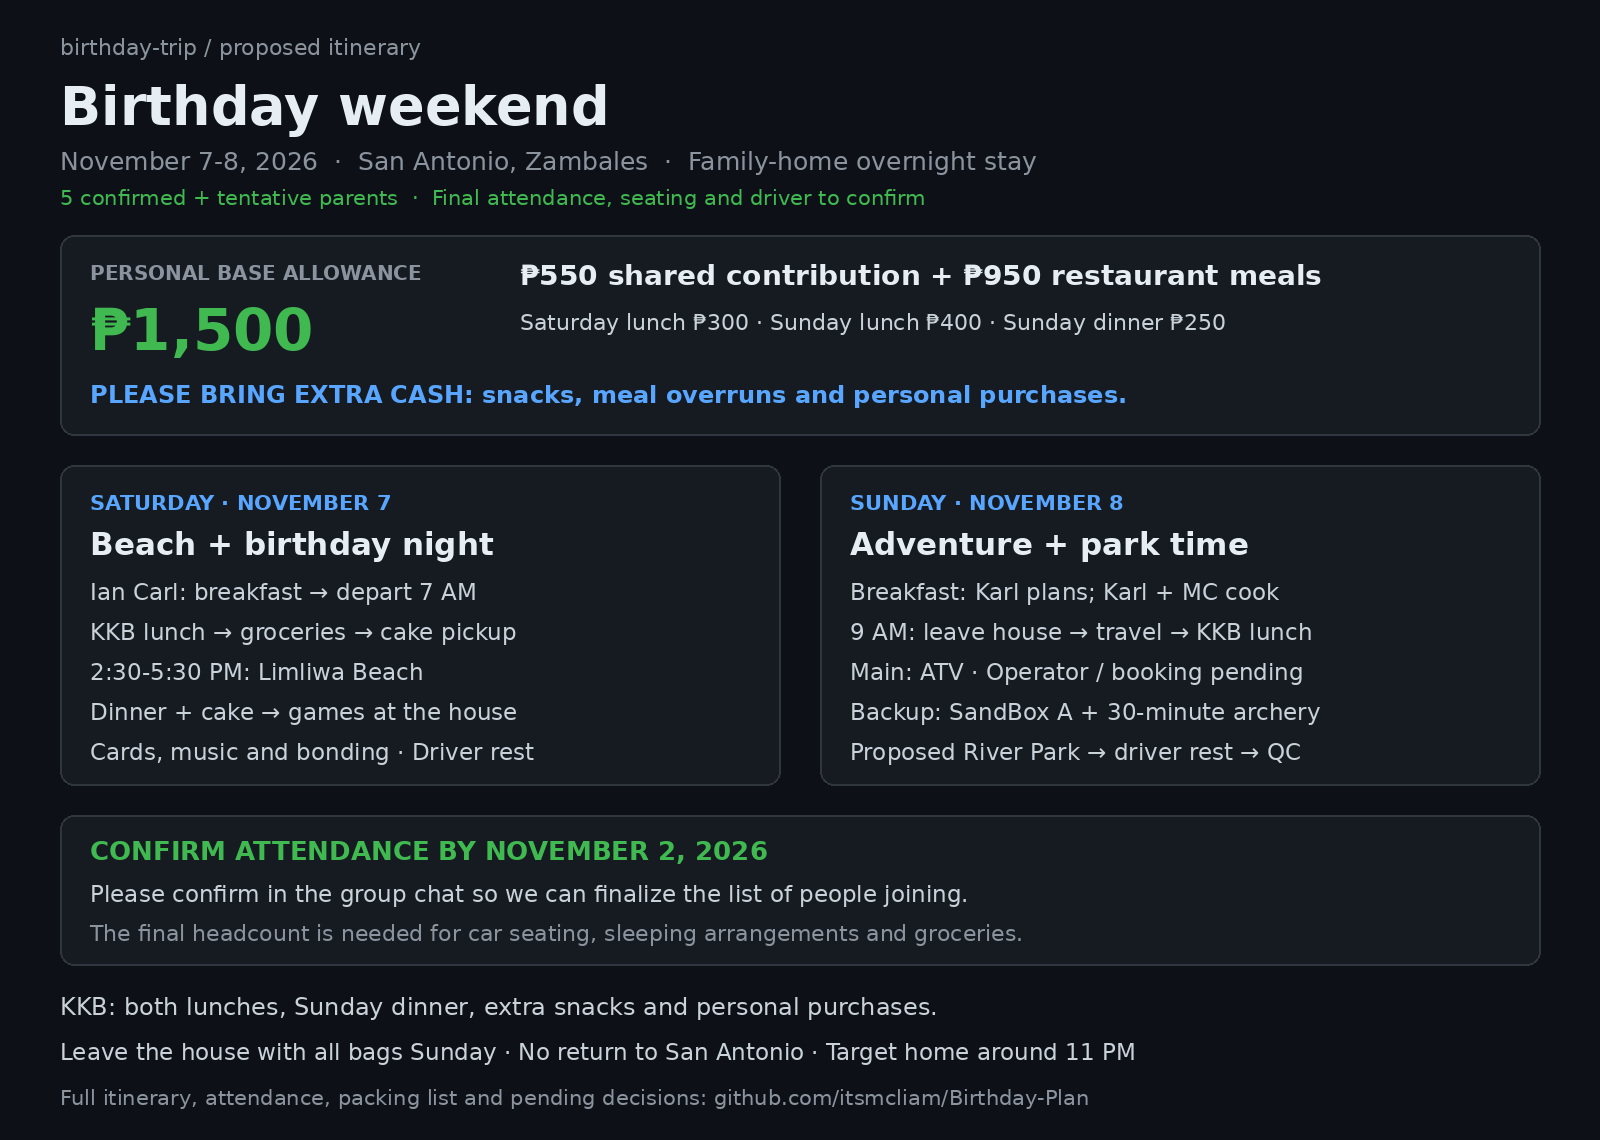
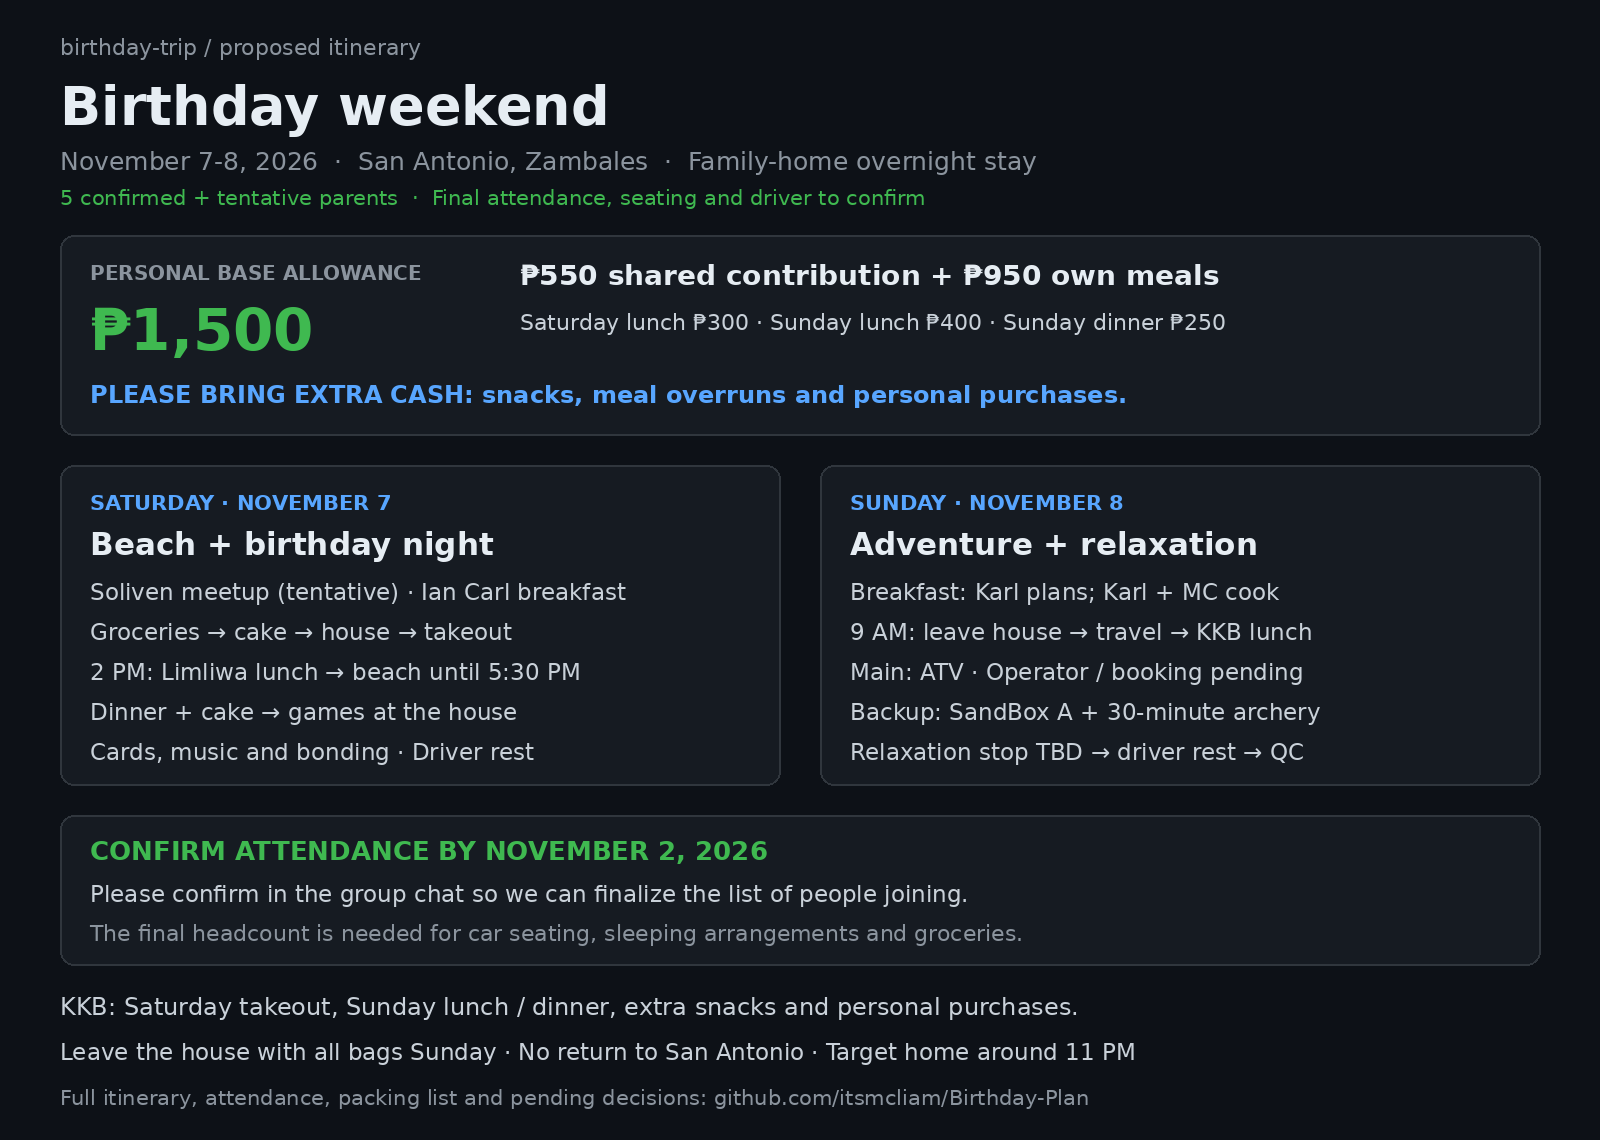
Use tentative Soliven meetup, Saturday beach takeout and pending post-ATV rest stop

diff --git a/README.md b/README.md
@@ -4,7 +4,7 @@
 
 A joint birthday celebration for **MC, Richelle and Paul**, with an overnight stay at Barte’s grandfather’s house in **San Antonio, Zambales**.
 
-![Birthday weekend overview](assets/trip-overview.png?v=20261024-breakfast-cake)
+![Birthday weekend overview](assets/trip-overview.png?v=20261024-takeout-soliven)
 
 [Download the printable PDF](Birthday-Trip-Plan.pdf) · [PNG overview](assets/trip-overview.png)
 
@@ -12,10 +12,10 @@ A joint birthday celebration for **MC, Richelle and Paul**, with an overnight st
 | --- | --- |
 | Dates | Saturday-Sunday, November 7-8, 2026 |
 | Transport | Barte’s car; final seating and driver to be confirmed |
-| Meetup | Pickups along the route, then Luzon meetup point |
+| Meetup | **Jollibee Soliven - tentative**; final pickup pins to follow |
 | Accommodation | Family home in San Antonio |
-| Saturday | Lunch, groceries, Limliwa Beach, birthday dinner and games at the house |
-| Sunday | ATV adventure and a relaxing park stop |
+| Saturday | Groceries, cake pickup, house stop, takeout lunch at Limliwa Beach, birthday dinner and games |
+| Sunday | KKB lunch before ATV, adventure and a relaxation stop - venue pending |
 | Personal budget | **₱1,500 base allowance - please bring extra cash** |
 | Target home arrival | Around **11 PM Sunday**, depending on traffic |
 
@@ -28,21 +28,21 @@ A joint birthday celebration for **MC, Richelle and Paul**, with an overnight st
 | Day 1 - Saturday, November 7 | [Open route](https://maps.app.goo.gl/bow4Z7npJpLcuBze9) |
 | Day 2 - Sunday, November 8 | [Open route](https://maps.app.goo.gl/9TENoR7mgRZXrqK6A) |
 
-Group route links supplied by MC. Sunday’s final route and timings remain subject to the confirmed ATV operator or SandBox alternative.
+Route links supplied by MC. The linked maps may still show the previous stop order. Saturday now uses **Jollibee Soliven (tentative)**, groceries, cake pickup, the house, takeout pickup and the beach. Sunday’s route depends on the ATV operator and the still-pending relaxation stop.
 
 ## Personal budget and KKB expenses
 
 | Expense per friend | Suggested amount |
 | --- | --- |
 | Shared contribution toward groceries, fuel and tolls | ₱550 |
-| Saturday lunch outside | ₱300 |
+| Saturday takeout lunch at the beach | ₱300 |
 | Sunday lunch outside | ₱400 |
 | Sunday dinner outside | ₱250 |
 | **Base allowance** | **₱1,500** |
 
 **Please bring extra cash on top of ₱1,500.** The meal amounts are estimates, and ₱1,500 is **not a guaranteed all-in budget**. Your actual spending will depend on restaurant prices and personal orders.
 
-Keep **₱950 for the three restaurant meals** and set aside **₱550 for the shared contribution**.
+Keep **₱950 for Saturday takeout lunch, Sunday lunch and Sunday dinner** and set aside **₱550 for the shared contribution**.
 
 | Additional personal expense | Arrangement |
 | --- | --- |
@@ -53,8 +53,8 @@ Keep **₱950 for the three restaurant meals** and set aside **₱550 for the sh
 ```mermaid
 flowchart TD
     A["₱1,500 base allowance"] --> B["₱550 shared contribution"]
-    A --> C["₱950 restaurant meals"]
-    C --> D["Saturday lunch: ₱300"]
+    A --> C["₱950 own meals"]
+    C --> D["Saturday takeout lunch: ₱300"]
     C --> E["Sunday lunch: ₱400"]
     C --> F["Sunday dinner: ₱250"]
     G["Bring extra cash beyond ₱1,500"] --> H["Extra snacks and personal purchases"]
@@ -88,28 +88,28 @@ flowchart TD
 | Time | Plan |
 | --- | --- |
 | 5:30&#8209;6&nbsp;AM | MC arrives at Barte’s house, parks his motorcycle and helps load the car. |
-| 6&#8209;7&nbsp;AM | Pick up Karl and Ian Carl along the route, then meet the remaining passengers at the **Luzon meetup point**. Exact pickup pins to follow. **Ian Carl prepares and packs Saturday’s light breakfast**, such as bread with spread or filling, for departure. |
-| 7&#8209;11&nbsp;AM | Travel to San Antonio, Zambales. Allow approximately **four hours**, including a short stop if needed. |
-| 11&nbsp;AM&#8209;12&nbsp;NN | **Lunch outside - KKB.** Recommended stop: **Wideplate Restaurant, San Antonio**, subject to group approval and current menu/seating confirmation. Keep the **₱300 personal allowance**. |
-| 12&#8209;1&nbsp;PM | Shop at **San Marcelino Public Market**, then a grocery for missing items: dinner and breakfast ingredients, fruit, drinks, water and ice. Karl identifies Sunday breakfast ingredients. Keep chilled items in the cooler. |
-| 1&#8209;1:30&nbsp;PM | **Cake pickup after groceries: KDB Sweet Shop**, Money Tree Building, Brgy. Rizal, San Antonio, behind 7-Eleven. **Preorder, flavor/design and pickup time still need confirmation.** |
-| 1:30&#8209;2&nbsp;PM | Arrive at the house, unload and refrigerate food. Everyone prepares beach bags while the driver rests. |
-| 2&#8209;2:30&nbsp;PM | Travel to **Limliwa Beach Resort**. |
-| 2:30&#8209;5:30&nbsp;PM | Beach swimming, photos, games and group hangout. Cottage availability depends on walk-in occupancy. |
+| 6&#8209;7&nbsp;AM | Pickups and meetup at **Jollibee Soliven - tentative**. Final pickup arrangements to follow. **Ian Carl prepares and packs Saturday’s light breakfast.** |
+| 7&#8209;11&nbsp;AM | Travel to Zambales. Allow approximately **four hours**, including a short stop if needed. |
+| 11&nbsp;AM&#8209;12&nbsp;NN | Shop at **San Marcelino Public Market** and a grocery for dinner and Sunday breakfast ingredients, fruit, drinks, water and ice. Karl identifies Sunday breakfast ingredients. Keep chilled purchases in the iced cooler. |
+| 12&#8209;12:30&nbsp;PM | **Cake pickup after groceries: KDB Sweet Shop**, Money Tree Building, Brgy. Rizal, San Antonio, behind 7-Eleven. **Preorder, flavor/design and pickup time still need confirmation.** |
+| 12:30&#8209;1&nbsp;PM | House stop: refrigerate raw meat and breakfast ingredients, store the cake, and prepare beach bags and a clean drinks cooler. Driver rests while others organize. |
+| 1&#8209;2&nbsp;PM | Leave the house, **collect freshly prepared takeout lunch - KKB**, then travel to **Limliwa Beach Resort**. Choose a shop near the house or along the beach route; confirm ordering/pickup ahead. |
+| 2&#8209;2:30&nbsp;PM | **Eat takeout lunch at the beach cottage.** Keep the **₱300 personal allowance**. Cottage access is walk-in and subject to availability. |
+| 2:30&#8209;5:30&nbsp;PM | Beach swimming, photos, games and group hangout. |
 | 5:30&#8209;6&nbsp;PM | Leave the resort and return to the house. |
 | 6&#8209;8&nbsp;PM | Shower, prepare **pork BBQ, pork adobo and rice**, eat together and celebrate with birthday cake. |
 | 8&#8209;10&nbsp;PM | Birthday games, music, group photos and bonding **at the house**. |
 | 10&#8209;11:30&nbsp;PM | UNO, cards, snacks and a relaxed hangout. Volunteers can bring small games. |
 | 11:30&nbsp;PM&nbsp;onward | Rest or quiet bonding. No fixed group bedtime, but the driver needs sufficient sleep before Sunday’s trip. |
 
-### Saturday lunch - KKB
+### Saturday takeout shortlist - KKB
 
 | Option | Published meal prices | Plan |
 | --- | --- | --- |
-| **Wideplate Restaurant** | Owner-uploaded menu reproduced by Restaurant Guru: lumpia silog ₱165, sisig with rice / liempo silog ₱185, chicken silog ₱190, tapsilog ₱225 | **Recommended KKB lunch**, subject to group approval; confirm latest prices, opening and seats |
-| **LML Sports Restaurant** | Own online catalog: regular silog meals ₱90-95; selected upsized meals ₱150 | Lower-cost option in Fabros Building, San Antonio; confirm current dine-in hours and menu |
+| **Wideplate Restaurant** | Owner-uploaded menu reproduced by Restaurant Guru: lumpia silog ₱165, sisig with rice / liempo silog ₱185, chicken silog ₱190, tapsilog ₱225 | Takeout candidate; confirm service, current prices and pickup time |
+| **LML Sports Restaurant** | Own online catalog: regular silog meals ₱90-95; selected upsized meals ₱150 | Lower-cost takeout candidate; confirm service, current prices and pickup time |
 
-Lunch references checked October 24, 2026: [Wideplate Facebook](https://www.facebook.com/wideplaterestaurant/) · [Owner-uploaded Wideplate menu reproduced by Restaurant Guru](https://restaurantguru.com/Wildeplate-Restaurant-San-Antonio-Central-Luzon/menu) · [LML own online catalog](https://lmlsportsrestaurant.catalog.kyte.site/silogs-and-sizzlings). Published prices may have changed. The ₱300 allowance includes room for a drink or extras depending on the order.
+Takeout shortlist references checked October 24, 2026: [Wideplate Facebook](https://www.facebook.com/wideplaterestaurant/) · [Owner-uploaded Wideplate menu reproduced by Restaurant Guru](https://restaurantguru.com/Wildeplate-Restaurant-San-Antonio-Central-Luzon/menu) · [LML own online catalog](https://lmlsportsrestaurant.catalog.kyte.site/silogs-and-sizzlings). These are options to check, not a selected restaurant. Confirm takeout service, current prices and pickup time. Keep the ₱300 personal allowance.
 
 ### Limliwa Beach reminders
 
@@ -117,16 +117,16 @@ Lunch references checked October 24, 2026: [Wideplate Facebook](https://www.face
 
 Dinner is planned **at the house**. Bring only what is needed for the beach.
 
-### Optional idea: takeout lunch and cooler flow
+### Beach lunch and cooler flow
 
-**Limliwa confirmed by direct message: outside food and drinks are allowed, with no corkage fee.** The main plan remains restaurant lunch before shopping and going to the beach. Takeout lunch at Limliwa after the house stop is an optional alternative, subject to group approval and revised timing because lunch would be later.
+**Saturday lunch plan: KKB takeout at Limliwa after the house stop.** Buy lunch shortly before reaching the beach, after refrigerating the meat and storing the cake. Limliwa confirmed outside food and drinks are allowed, with no corkage fee. Lunch is around **2 PM**; bring a small snack for the drive.
 
 | Stage | Plan |
 | --- | --- |
 | QC and grocery stop | Keep marinated BBQ and other chilled ingredients in sealed, leakproof containers in an iced cooler. |
 | At the house | Transfer raw meat and chilled breakfast ingredients into the refrigerator/freezer promptly. |
 | Beach preparation | Prefer a separate clean cooler for drinks and chilled snacks. If reusing the meat cooler, discard old ice, wash and sanitize it, then add fresh ice. Keep chips in a dry bag. |
-| If takeout is approved | If the group chooses this option, buy takeout shortly before eating at the resort, after the grocery and house stops. Outside food and drinks are allowed with no corkage fee. |
+| Takeout and beach lunch | After the house stop, collect takeout shortly before arriving at the beach and eat on arrival. Limliwa confirmed outside food and drinks are allowed with no corkage fee. |
 
 Outside-food policy confirmed directly by Limliwa in a message shared by MC on October 23, 2026: food and drinks are allowed, with no corkage fee.
 
@@ -140,10 +140,10 @@ This schedule assumes an ATV provider around **Capas/Santa Juliana**. Travel tim
 | --- | --- |
 | 7:30&#8209;9&nbsp;AM | Breakfast, cleanup and packing. **Karl plans the menu and ingredients; Karl and MC cook.** Everyone helps clean and loads all belongings into the car. |
 | 9&nbsp;AM&#8209;12&nbsp;NN | Travel directly to the **ATV meeting point**. Allow approximately **three hours** for now; the exact operator and location still need confirmation. |
-| 12&#8209;1&nbsp;PM | **Lunch outside - KKB.** Choose a restaurant near the confirmed ATV meeting point; venue pending. |
+| 12&#8209;1&nbsp;PM | **Lunch outside - KKB, before ATV.** Eat near the confirmed adventure meeting point. Venue pending; **₱400 personal allowance**. |
 | 1&#8209;2:30&nbsp;PM | **Mt. Pinatubo lahar-trail ATV adventure.** Allow for registration, briefing and the preferred **30-minute to one-hour ride**. Operator and booking pending. |
-| 2:30&#8209;3&nbsp;PM | Change clothes if needed, freshen up and travel toward **New Clark City River Park**. Timing depends on the ATV location. |
-| 3&#8209;5&nbsp;PM | **New Clark City River Park:** relaxed riverside walking, photos, greenery and bonding. **Driver rests before the drive home.** Published public access is free; reconfirm November 8 access and the final ATV-to-park route. |
+| 2:30&#8209;3&nbsp;PM | Freshen up and transfer to the **relaxation stop - venue pending**. Route and travel time depend on the confirmed ATV operator. |
+| 3&#8209;5&nbsp;PM | **Relaxation and driver rest - destination undecided.** Walk, take photos and spend time together somewhere along the return route. New Clark City River Park is only a candidate; group suggestions welcome. |
 | 5&#8209;5:30&nbsp;PM | Restroom stop, organize belongings and prepare for departure. |
 | 5:30&#8209;9:30&nbsp;PM | Travel back to QC, allowing approximately **four hours** with a rest stop if needed. |
 | 9:30&#8209;10:15&nbsp;PM | **Dinner outside - KKB.** Restaurant to be decided in QC or along the return route. |
@@ -158,11 +158,11 @@ This schedule assumes an ATV provider around **Capas/Santa Juliana**. Travel tim
 | --- | --- | --- |
 | **Main adventure** | **Mt. Pinatubo lahar-trail ATV** | Operator, current package, meeting point and booking pending |
 | **Alternative to ATV** | **SandBox Package A + 30-minute unlimited-arrow archery** | Subject to group approval and availability |
-| Relaxation | New Clark City River Park | Published free public access; reconfirm November 8 access and route suitability |
+| Relaxation after ATV | **Venue pending** | Choose a restful stop along the route. New Clark City River Park remains one candidate; bike rental is unverified. |
 
-**River Park:** about 1.4 km of riverside paths, bikeways, public greenery, art installations and an open amphitheater. Suitable for walking, photos and a relaxed stop after ATV. BCDA published free public access when New Clark City reopened in May 2022; reconfirm November 8 access. This does not imply free admission to other sports facilities or events.
+**Relaxation destination is still pending.** New Clark City River Park is one candidate for riverside walking, photos and greenery. Its official site confirms bikeways, but a current bike-rental operator, price and November 8 availability have not been verified. Choose the stop after the ATV venue is confirmed.
 
-Park references: [Official New Clark City facilities](https://newclarkcity.ph/explore/) · [BCDA public reopening announcement, May 26, 2022](https://bcda.gov.ph/news/bcda-reopens-new-clark-city-grand-opening-event-set-may-28-29).
+Candidate reference: [Official New Clark City facilities](https://newclarkcity.ph/facilities/). Bike rental remains unconfirmed.
 
 **SandBox replaces ATV if selected.** It is not an additional scheduled activity, and choosing it will require changes to the route and times.
 
@@ -170,15 +170,15 @@ Suggestions for a replacement adventure or relaxation stop are welcome. Choose p
 
 ```mermaid
 flowchart TD
-    A["Saturday: Ian Carl prepares breakfast, pickups and travel"] --> B["KKB lunch, groceries, cake pickup and house"]
-    B --> C["Limliwa Beach"]
+    A["Saturday: Ian Carl breakfast and tentative Soliven meetup"] --> B["Groceries, cake pickup and house"]
+    B --> C["Takeout pickup, beach lunch and swimming"]
     C --> D["Birthday dinner and games at the house"]
     D --> E["Sunday: breakfast, clean and pack"]
-    E --> F["Travel to adventure venue and KKB lunch"]
+    E --> F["Travel to adventure venue and KKB lunch before ATV"]
     F --> G{"Adventure choice"}
     G -->|"Main plan"| H["Mt. Pinatubo ATV"]
     G -->|"Alternative"| I["SandBox A and 30-minute archery"]
-    H --> J["Proposed River Park stop and driver rest"]
+    H --> J["Relaxation stop TBD and driver rest"]
     I --> J
     J --> K["Return to QC, KKB dinner and drop-offs"]
 ```
@@ -242,7 +242,7 @@ Quantities are provisional for **7-8 people**, adjusted after the **November 2 a
 
 Market backup: **Mc Mar Frozen Foods** and **Rodriguez Supermart, Agpalo Street**. Stock, prices, water and ice availability need confirmation. **KDB Sweet Shop cake preorder and pickup time are still pending.**
 
-**Shopping flow:** KKB lunch → San Marcelino market / grocery → water / ice → **KDB Sweet Shop cake pickup in San Antonio** → house and refrigerator → beach. Allow about **90 minutes for shopping and pickup**; timing is provisional. Confirm the cake preorder and collection time before travel.
+**Saturday flow:** San Marcelino market / grocery → water / ice → **KDB cake pickup** → house / refrigerator → **fresh takeout pickup** → **lunch at Limliwa Beach**. Shopping and pickup times are provisional. Confirm the cake order and takeout arrangement ahead.
 
 Shopping references: [Mc Mar Frozen Foods listing](https://www.bizippines.com/mc-mar-frozen-foods-0929-565-7091) · [Rodriguez Supermart listing](https://www.cybo.com/PH-biz/rodriguez-supermart). These are store listings, not live inventory.
 
@@ -266,9 +266,9 @@ Chargers, cables and charged power banks are each person’s responsibility.
 | **Attendance and transport** | Finalize attendance by **November 2, 2026**; confirm Barte’s parents, driver, vehicle seating and pickup pins |
 | **ATV - Sunday’s main activity** | Find a reliable operator and confirm the package, duration, meeting point, regular-car access and booking |
 | **SandBox - ATV alternative** | Group approval for **Package A + 30-minute unlimited-arrow archery**; confirm availability and adjust the route if selected |
-| **Saturday lunch - KKB** | Recommended: **Wideplate Restaurant, San Antonio**. Group approval, latest menu, November 7 opening and seating still to confirm. **LML Sports Restaurant** is a lower-cost option. Lunch remains KKB, with a ₱300 allowance. |
-| **Sunday lunch - KKB** | Choose a restaurant near the final adventure venue; location depends on the ATV operator or SandBox selection. |
-| **New Clark City River Park** | Published free public access. Reconfirm November 8 opening/access and the route after selecting the ATV operator; relaxation-stop alternatives remain welcome. |
+| **Saturday lunch - KKB** | **Takeout to eat at Limliwa after the house stop.** Select a shop along the route; confirm takeout service, current prices and pickup timing. Allow ₱300 each. Wideplate and LML are options to check. |
+| **Sunday lunch - KKB** | **KKB lunch before ATV**, near the final meeting point; allow ₱400 each. Choose the restaurant after confirming the operator or SandBox alternative. |
+| **Relaxation stop after ATV** | **Destination pending.** New Clark City River Park is only a candidate. Confirm final venue, route, opening and any fees. No current bike-rental operator or rate verified. Suggestions welcome. |
 | **Birthday cake pickup** | **KDB Sweet Shop**, Money Tree Building, Brgy. Rizal, San Antonio, behind 7-Eleven. Finalize flavor/design, place the preorder and confirm pickup after groceries on November 7. |
 
 ## Personal packing checklist
